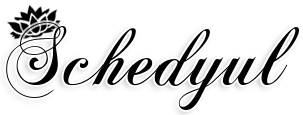
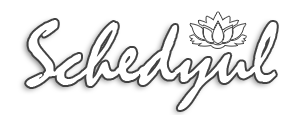
Updating app

Changed region(s): [[0.0, 0.0522, 1.0, 0.9913]]

diff --git a/client/client.html b/client/client.html
@@ -2,32 +2,9 @@
 <html lang="en">
 <head>
   <title>Schedyul</title>
-  <!-- <style>
-     html, body {
-        height: 100%;
-        width: 100%;
-        margin: 0;
-        padding: 0;
-    }
 
-    #top {
-        text-align: center;
-        margin: 0 auto;
-    }
-    
-    #top h1 {
-      font-size: 2em;
-    }
-    
-    #content {
-      margin-top: 100px;
-      font-size: 2em;
-      text-align: center;
-    }
-  </style> -->
   <link rel="stylesheet" type="text/css" href="/style.css">
   <script src="https://cdnjs.cloudflare.com/ajax/libs/babel-core/5.8.34/browser.min.js"></script>
-  <script type="text/javascript" src="../src/date.js"></script>
   <script type="text/babel">
 
     //global today variable
@@ -63,6 +40,17 @@
       
       //If the server sent back a message in JSON, add it to the screen.
       if(obj.message) {
+        // for (let i = 0; i < obj.users.length; i++) {
+        //   content.innerHTML += `<p>Name: ${obj.users[i].name}</p>`
+        //   console.log("User" , obj.users[i]);
+        //   console.log("Name" , obj.users[i].name);
+        //   console.log("Date" , obj.users[i].date);
+        //   content.innerHTML += `<p>Date: ${obj.users[i].date}</p>`
+        //   content.innerHTML += `<p>Class: ${obj.users[i].class}</p>`
+        //   content.innerHTML += `<p>Task: ${obj.users[i].task}</p>`
+        // }
+        
+        console.log("OBJ: ", obj.u);
         content.innerHTML += `<p>Message: ${obj.message}</p>`
       }
 
@@ -84,7 +72,7 @@
 
       xhr.onload = () => handleResponse(xhr);
 
-      const formData = `date=${dateField.value}&class=${classField.value}&task=${taskField.value}`;
+      const formData = `name=${nameField.value}&date=${dateField.value}&class=${classField.value}&task=${taskField.value}`;
 
       xhr.send(formData);
       
@@ -95,8 +83,8 @@
      
     //function to send ajax
     const sendAjax = (e, url) => {
+
       //create a new xhr (ajax) request. 
-      //Remember that these are ASYNCHRONOUS
       const xhr = new XMLHttpRequest();
       
       //set the xhr to a GET request to a certain URL
@@ -133,7 +121,7 @@
           mm = '0'+ mm
       } 
 
-      today = yyyy + '/' + mm + '/' + dd;
+      today = mm + '/' + dd + '/' + yyyy;
       console.log("Today: ", today);
       return today;
     }
@@ -141,26 +129,26 @@
     const init = () => {
 
       //calculates date
-
       const dateField = document.querySelector('#dateField');
 
       today = calculateToday();
-      nextMonth = Date.today().next().month();
       dateField.setAttribute('min', today);
-      dateField.setAttribute('max', nextMonth);
-      console.log("Max after: ", dateField.max);
+      // console.log("Max after: ", dateField.max);
 
       const schedule = document.querySelector('#schedule');
       const addUser = (e) => sendPost(e, schedule);
       schedule.addEventListener('submit', addUser);
       
       const userForm = document.querySelector('#userForm');
+
+
       const handleGet = (e) => {
         const urlField = document.querySelector('#urlField');
         const url = urlField.options[urlField.selectedIndex].value;
         sendAjax(e, url); 
       };
-      
+
+
       userForm.addEventListener('submit', handleGet);
     };
 
@@ -170,12 +158,14 @@
   </script>
 </head>
 <body>
-  <!-- https://i.imgur.com/IgKdisZ.png -->
   <img class = "title" src = "header.png"  alt = "title">
   <div class = "app-style">
-    <!-- <h3 >Schedyul</h3> -->
     <div id="container">
       <form id="schedule" action="/addUser" method="post">
+        <div class="form-section">
+          <label for="name">User's name: </label>
+          <input id="nameField" type="text" class="inputField" name="name" />
+        </div>
         <div class="form-section">
           <label for="date">Date (Limited to month): </label>
           <input id="dateField" type="date" class="inputField" name="date" />
@@ -207,9 +197,13 @@
      
     </div>
   </div>
+
+
   <div class = "app-style">
     <section id="content">
     </section>
   </div>
+
+
 </body>
 </html>

diff --git a/src/jsonResponses.js b/src/jsonResponses.js
@@ -98,26 +98,29 @@ const notFound = (request, response) => {
 
 const addUser = (request, response, body) => {
   const responseJSON = {
-    message: 'Date, class and task are all required.',
+    message: 'Name, date, class and task are all required to add task.',
   };
 
   console.dir(body);
 
-  if (!body.date || !body.class || !body.task) {
+  if (!body.date || !body.class || !body.task || !body.name) {
     responseJSON.id = 'missingParams';
     return respondJSON(request, response, 400, responseJSON);
   }
 
   let responseCode = 201; // success created
-  if (users[body.date]) {
+
+  // handles update
+  if (users[body.name]) {
     responseCode = 204;
   } else {
-    users[body.date] = {};
-    users[body.date].date = body.date;
+    users[body.name] = {};
+    users[body.name].dates = {};
+    users[body.name].name = body.name;
   }
-
-  users[body.date].class = body.class;
-  users[body.date].task = body.task;
+  users[body.name].dates += body.date;
+  users[body.name].class = body.class;
+  users[body.name].task = body.task;
 
   if (responseCode === 201) {
     responseJSON.message = 'Created Successfully';

diff --git a/src/htmlResponses.js b/src/htmlResponses.js
@@ -6,6 +6,7 @@ const fs = require('fs'); // pull in the file system module
 // synchronous operations or load entire files into memory.
 const index = fs.readFileSync(`${__dirname}/../client/client.html`);
 const css = fs.readFileSync(`${__dirname}/../client/style.css`);
+const header = fs.readFileSync(`${__dirname}/../client/header.png`);
 
 // function to handle the index page
 const getIndex = (request, response) => {
@@ -25,10 +26,17 @@ const getCSS = (request, response) => {
   response.end();
 };
 
+const getHeader = (request, response) => {
+  response.writeHead(200, { 'Content-Type': 'image/png' });
+  response.write(header);
+  response.end();
+};
+
 // exports to set functions to public.
 // In this syntax, you can do getIndex:getIndex, but if they
 // are the same name, you can short handle to just getIndex,
 module.exports = {
   getIndex,
   getCSS,
+  getHeader,
 };

diff --git a/src/server.js b/src/server.js
@@ -38,6 +38,8 @@ const handlePost = (request, response, parsedUrl) => {
 const handleGet = (request, response, parsedUrl) => {
   if (parsedUrl.pathname === '/style.css') {
     htmlHandler.getCSS(request, response);
+  } else if (parsedUrl.pathname === '/header.png') {
+    htmlHandler.getHeader(request, response);
   } else if (parsedUrl.pathname === '/getUsers') {
     jsonHandler.getUsers(request, response, parsedUrl);
   } else if (parsedUrl.pathname === '/notReal') {
